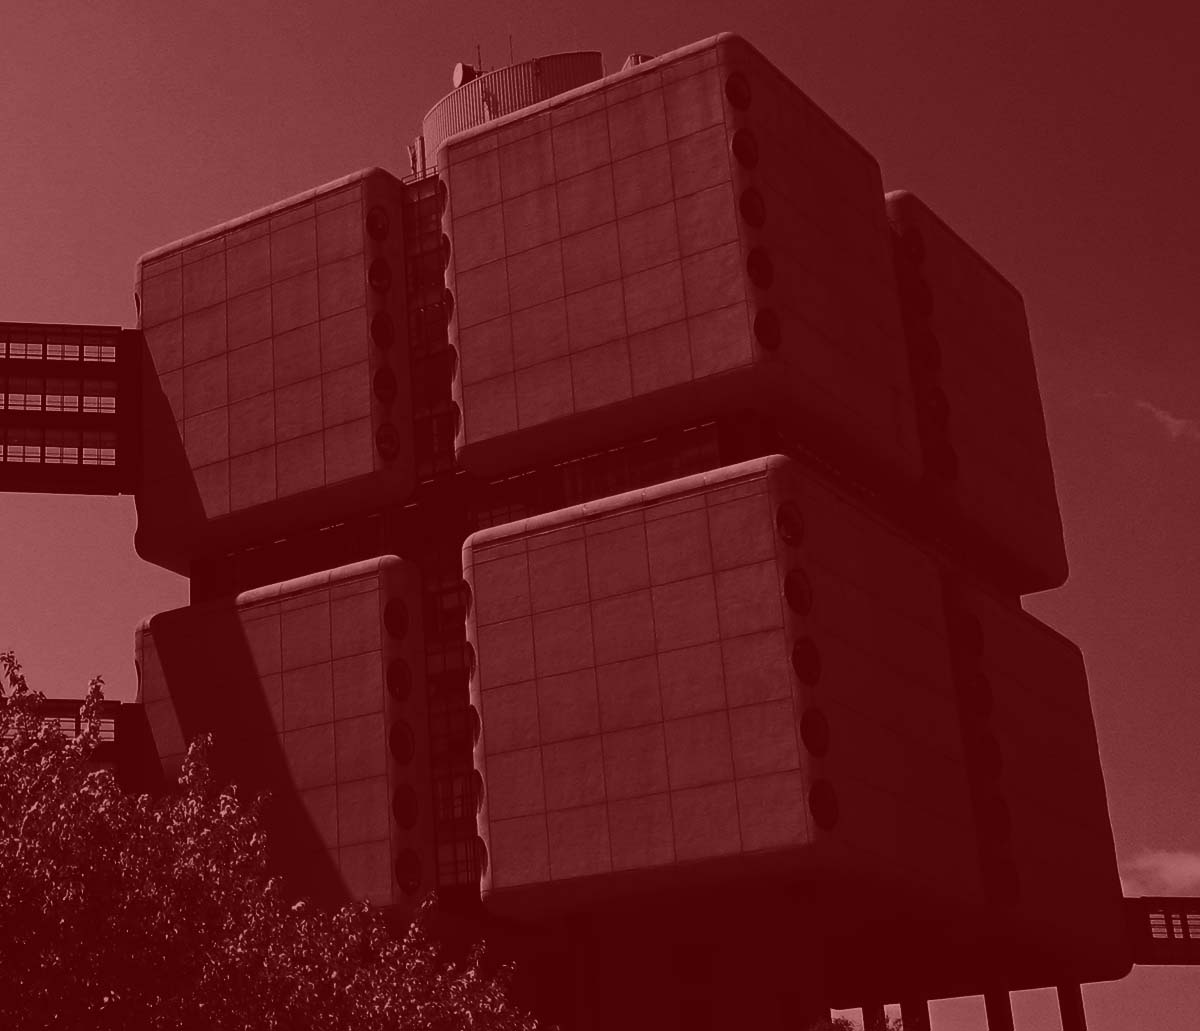
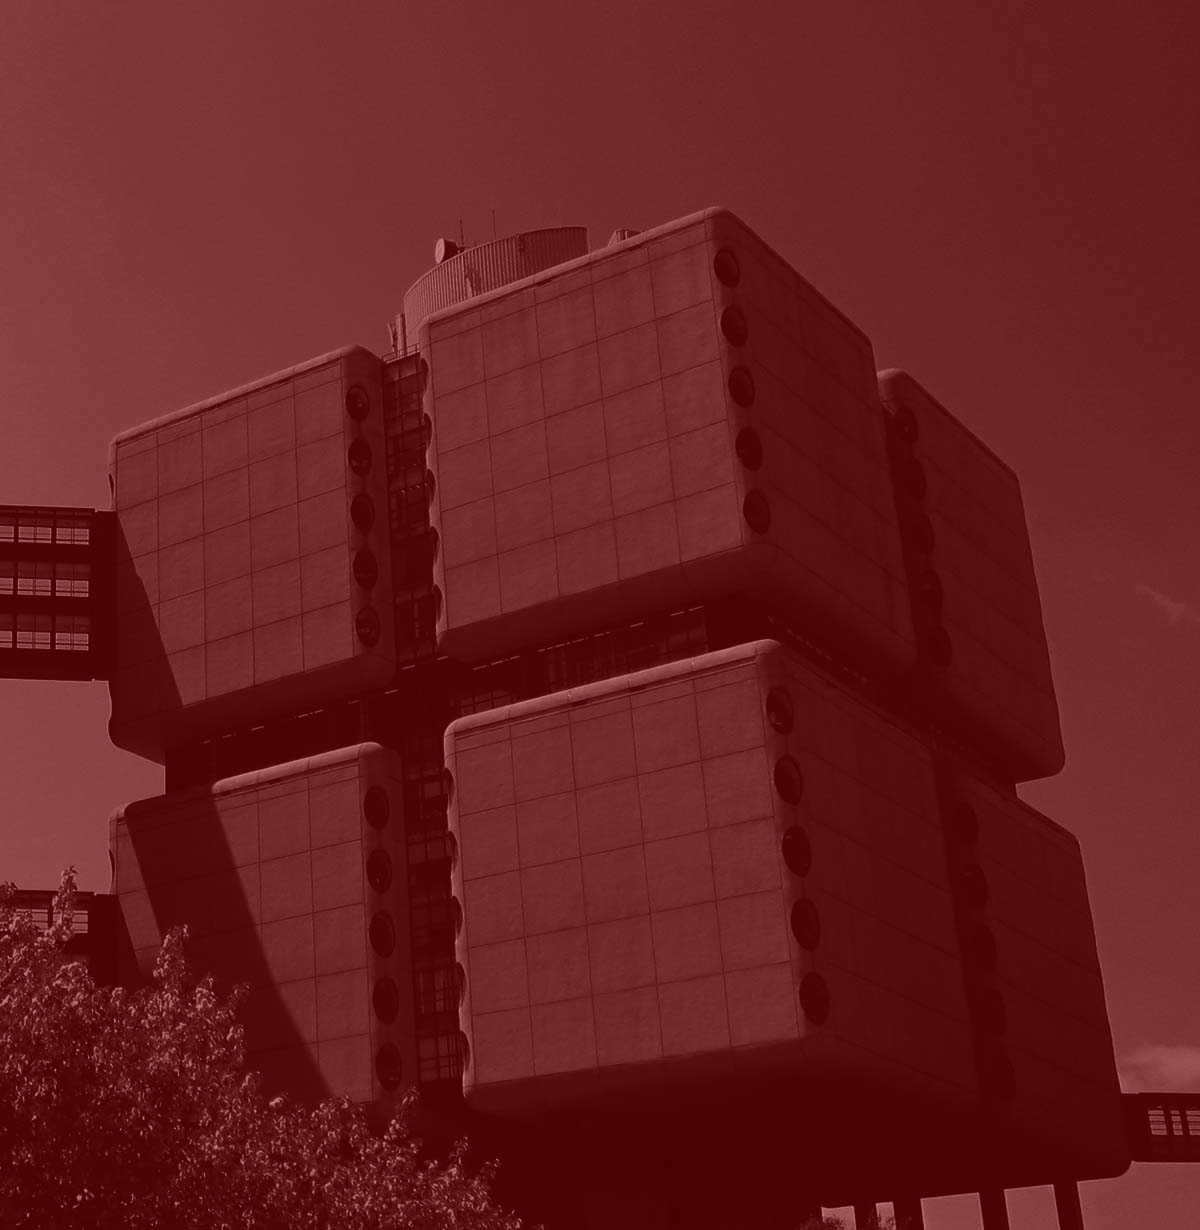
Made background bigger, improved styling

diff --git a/style.less b/style.less
@@ -1,9 +1,10 @@
 @gray: #2B2B2B;
 @nav-bar-height: 50px;
+@background-offset: -50px;
 
 body {
   padding-top: @nav-bar-height;
-  background: #2B2B2B url('img/background.jpg') no-repeat fixed center @nav-bar-height;
+  background: #2B2B2B url('img/background.jpg') no-repeat fixed center @nav-bar-height + @background-offset;
   font-size: 16px;
   color: @gray;
   max-width: 1200px;
@@ -33,21 +34,25 @@ body {
 .content {
   color: white;
   text-align: center;
+  padding-bottom: 36px;
+
   .col-sm-6 {
     max-width: 360px;  /* Prevent lines from being too long on tablet */
     margin: auto;
   }
 
   .wwww {
-    margin-bottom: 26px;
+    .row>div {
+      margin-bottom: 26px;
+    }
   }
 
   .register.row {
     h2 {
-      margin-top: 8px;
+      margin-top: 12px;
     }
     button {
-      margin: 12px 5px 36px 5px;
+      margin: 8px;
     }
   }
 }

diff --git a/index.html b/index.html
@@ -108,10 +108,15 @@
         <hr>
 
         <div class="register row">
-            <div class="col-md-12" style="text-align:center">
+            <div class="col-sm-12">
                 <h2 id="register">Register</h2>
+            </div>
+            <div class="col-sm-6">
                 <button class="btn btn-primary" type="button">Register to Hack</button>
+            </div>
+            <div class="col-sm-6">
                 <button class="btn btn-success" type="button">Register to Mentor</button>
+            </div>
                 <!--
                 <div class="input-group">
                     <input type="text" class="form-control" aria-label="...">
